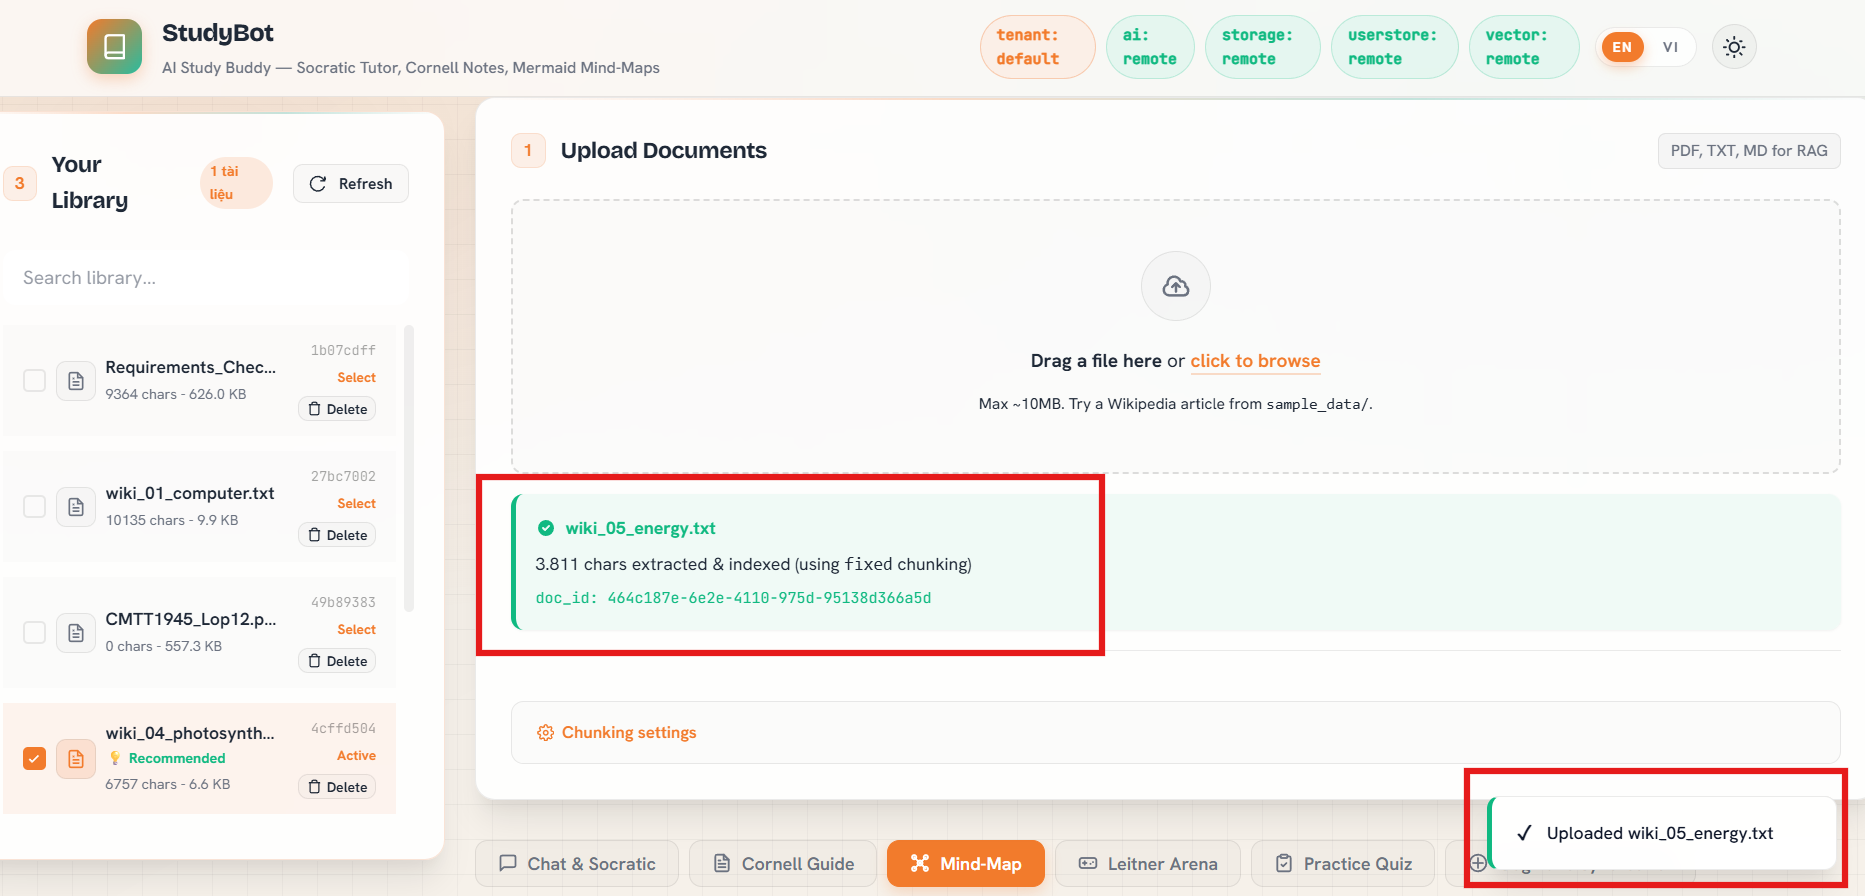
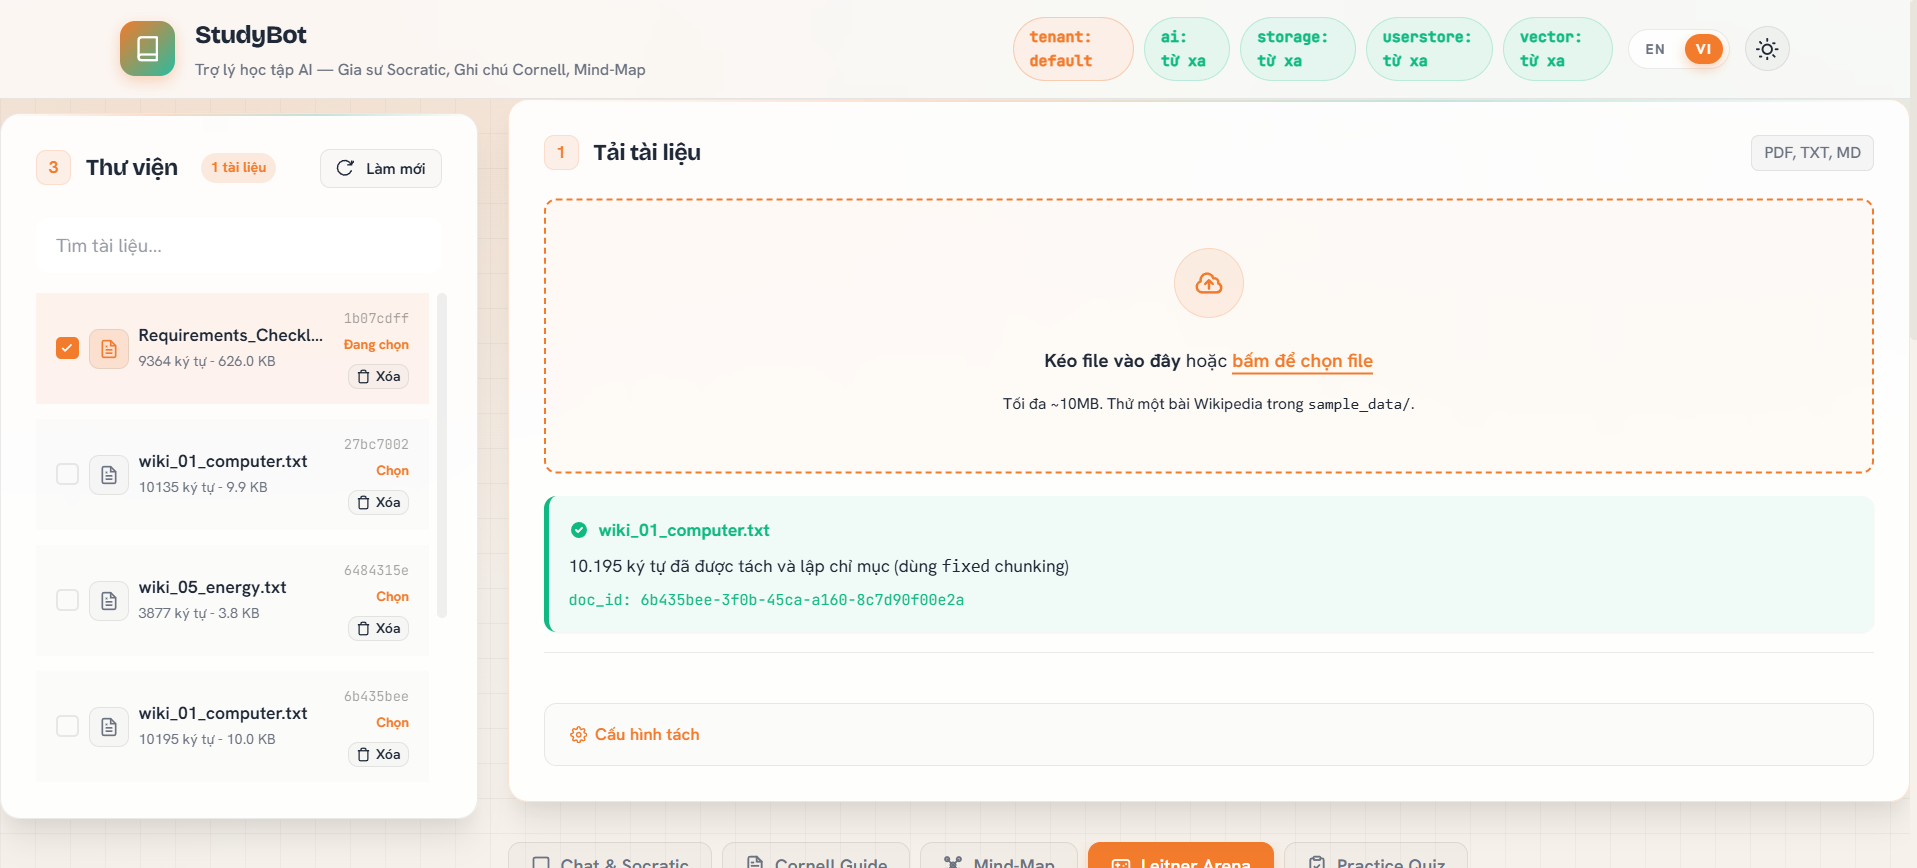
Update evidence documentation

diff --git a/docs/evidence/W7_evidence_vi.md b/docs/evidence/W7_evidence_vi.md
@@ -217,6 +217,7 @@ Bằng chứng cần chụp:
 - ![alt text](04_ai_answer_with_context.png) - câu trả lời hiển thị trên UI.
 - ![alt text](24_bedrock_model_answer.png) - câu trả lời từ Bedrock thật.
 - ![alt text](23_custom_metrics.png) - custom metric `SocraticQueryLatency`.
+- ![alt text](27_docs_list_persistence.png) - tài liệu/query cũ vẫn còn hiển thị.
 
 #### Luồng 4 - Tạo flashcards và quiz
 
@@ -230,9 +231,9 @@ Bằng chứng cần chụp:
 8. UI render bộ học tập đã sinh; `GET /quiz/{doc_id}` có thể load lại quiz đã lưu.
 
 Bằng chứng cần chụp:
-- `05_flashcards_or_quiz.png` - flashcard/quiz hiển thị trên UI.
-- `37_s3_quiz_json.png` - JSON quiz đã lưu trong S3.
-- `23_custom_metrics.png` - `FlashcardGenerationLatency` hoặc `FlashcardGenerationSuccess`.
+- ![alt text](image-17.png) - flashcard/quiz hiển thị trên UI.
+- ![alt text](image-12.png) - JSON quiz đã lưu trong S3.
+- ![alt text](image-16.png)- `
 
 #### Luồng 5 - Quay lại session mới và kiểm tra persistence
 
@@ -242,12 +243,12 @@ Bằng chứng cần chụp:
 4. UI hiển thị tài liệu đã upload, recent query, và quiz đã lưu. Flashcards hiện là generated-on-demand trừ khi save/load flashcard S3 được implement.
 
 Bằng chứng cần chụp:
-- `28_fresh_session_persistence.png` - session mới vẫn thấy dữ liệu cũ.
-- `26_dynamodb_items.png` - record user/document đã persist.
-- `37_s3_quiz_json.png` - artifact quiz đã persist trong S3.
+- ![alt text](image-18.png) - session mới vẫn thấy dữ liệu cũ.
+- ![alt text](image-13.png) - record user/document đã persist.
+- ![alt text](image-19.png) - artifact quiz đã persist trong S3.
 
 Ảnh chụp màn hình bắt buộc:
-- `07_api_gateway_routes.png`
+- ![alt text](image-14.png)
 
 ## 4. Kiểm Soát Chi Phí
 